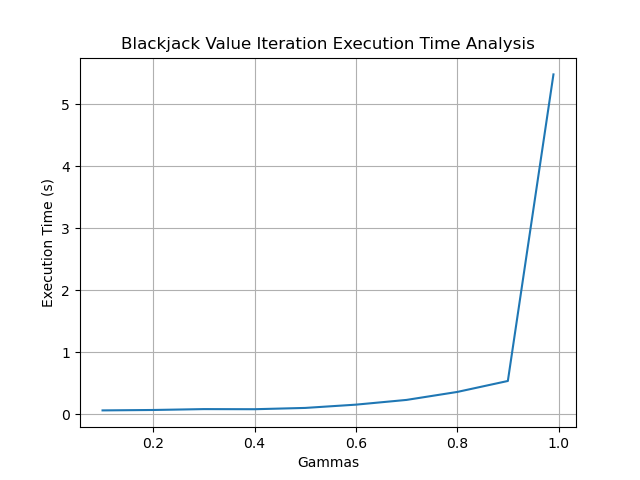
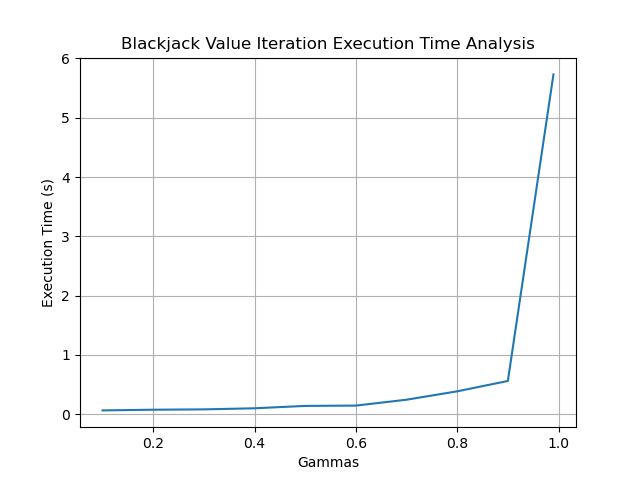
pr4 update 6

diff --git a/pr4/blackjack.py b/pr4/blackjack.py
@@ -87,91 +87,91 @@ def Blackjack_Experiments():
     iters = [0] * 10
     list_scores = [0] * 10
     gammas = [0.1, 0.2, 0.3, 0.4, 0.5, 0.6, 0.7, 0.8, 0.9, 0.99]
-    # ### POLICY ITERATION ####
-    # print('POLICY ITERATION WITH BLACKJACK')
-    # for i, g in enumerate(gammas):
-    #     st = time.time()
-    #     best_policy, k = policy_iteration(blackjack, gamma=g)
-    #     end = time.time()
-    #     print('policy iteration finish for gamma:', g)
-    #     scores = evaluate_policy(blackjack, best_policy, gamma=g)
-    #     # print(best_policy)
-    #     plot_blackjack_policy(blackjack, best_policy.reshape(29,10), 'Blackjack Policy Map Iteration ' + str(i) + ' (Policy Iteration) ' + 'Gamma ' + str(g), directions_blackjack())
-    #     print('policy evaluation finish for gamma:', g)
-    #     gamma_arr[i] = g
-    #     list_scores[i] = np.mean(scores)
-    #     iters[i] = k
-    #     time_array[i] = end - st
+    ### POLICY ITERATION ####
+    print('POLICY ITERATION WITH BLACKJACK')
+    for i, g in enumerate(gammas):
+        st = time.time()
+        best_policy, k = policy_iteration(blackjack, gamma=g)
+        end = time.time()
+        print('policy iteration finish for gamma:', g)
+        scores = evaluate_policy(blackjack, best_policy, gamma=g)
+        # print(best_policy)
+        plot_blackjack_policy(blackjack, best_policy.reshape(29,10), 'Blackjack Policy Map Iteration ' + str(i) + ' (Policy Iteration) ' + 'Gamma ' + str(g), directions_blackjack())
+        print('policy evaluation finish for gamma:', g)
+        gamma_arr[i] = g
+        list_scores[i] = np.mean(scores)
+        iters[i] = k
+        time_array[i] = end - st
         
-    #     print('Number of iterations to converge: ', k, 'Total execution time:', end-st, 'Average reward: ', np.mean(scores), 'Gamma: ', g)
+        print('Number of iterations to converge: ', k, 'Total execution time:', end-st, 'Average reward: ', np.mean(scores), 'Gamma: ', g)
 
 
-    # plt.plot(gamma_arr, time_array)
-    # plt.xlabel('Gamma')
-    # plt.title('Blackjack Policy Iteration Execution Time Analysis')
-    # plt.ylabel('Execution Time (s)')
-    # plt.grid()
-    # plt.savefig('img/Blackjack Policy Iteration Execution Time Analysis.png')
-    # plt.close()
+    plt.plot(gamma_arr, time_array)
+    plt.xlabel('Gamma')
+    plt.title('Blackjack Policy Iteration Execution Time Analysis')
+    plt.ylabel('Execution Time (s)')
+    plt.grid()
+    plt.savefig('img/Blackjack Policy Iteration Execution Time Analysis.png')
+    plt.close()
 
-    # plt.plot(gamma_arr, list_scores)
-    # plt.xlabel('Gamma')
-    # plt.ylabel('Average Rewards')
-    # plt.title('Blackjack Policy Iteration Reward Analysis')
-    # plt.grid()
-    # plt.savefig('img/Blackjack Policy Iteration Reward Analysis.png')
-    # plt.close()
+    plt.plot(gamma_arr, list_scores)
+    plt.xlabel('Gamma')
+    plt.ylabel('Average Rewards')
+    plt.title('Blackjack Policy Iteration Reward Analysis')
+    plt.grid()
+    plt.savefig('img/Blackjack Policy Iteration Reward Analysis.png')
+    plt.close()
 
-    # plt.plot(gamma_arr, iters)
-    # plt.xlabel('Gamma')
-    # plt.ylabel('Iterations to Converge')
-    # plt.ylim(0,10)
-    # plt.title('Blackjack - Policy Iteration - Convergence Analysis')
-    # plt.grid()
-    # plt.savefig('img/Blackjack Policy Iteration Convergence Analysis.png')
-    # plt.close()
+    plt.plot(gamma_arr, iters)
+    plt.xlabel('Gamma')
+    plt.ylabel('Iterations to Converge')
+    plt.ylim(0,10)
+    plt.title('Blackjack - Policy Iteration - Convergence Analysis')
+    plt.grid()
+    plt.savefig('img/Blackjack Policy Iteration Convergence Analysis.png')
+    plt.close()
 
-    # ### VALUE ITERATION ###
-    # print('VALUE ITERATION WITH FROZEN LAKE')
-    # for i, g in enumerate(gammas):
-    #     st = time.time()
-    #     best_value, k = value_iteration(blackjack, gamma=g)
-    #     end = time.time()
-    #     print('value iteration finish for gamma: ', g)
-    #     policy = extract_policy(blackjack, best_value, gamma=g)
-    #     plot_blackjack_policy(blackjack, policy.reshape(29,10), 'Blackjack Policy Map Iteration ' + str(i) + ' (Value Iteration) ' + 'Gamma ' + str(g), directions_blackjack())
-    #     policy_score = evaluate_policy(blackjack, policy, gamma=g)
-    #     print('policy evaluation finish for gamma: ', g)
-    #     gamma_arr[i] = g
-    #     iters[i] = k
-    #     list_scores[i] = np.mean(policy_score)
-    #     time_array[i] = end - st
+    ### VALUE ITERATION ###
+    print('VALUE ITERATION WITH FROZEN LAKE')
+    for i, g in enumerate(gammas):
+        st = time.time()
+        best_value, k = value_iteration(blackjack, gamma=g)
+        end = time.time()
+        print('value iteration finish for gamma: ', g)
+        policy = extract_policy(blackjack, best_value, gamma=g)
+        plot_blackjack_policy(blackjack, policy.reshape(29,10), 'Blackjack Policy Map Iteration ' + str(i) + ' (Value Iteration) ' + 'Gamma ' + str(g), directions_blackjack())
+        policy_score = evaluate_policy(blackjack, policy, gamma=g)
+        print('policy evaluation finish for gamma: ', g)
+        gamma_arr[i] = g
+        iters[i] = k
+        list_scores[i] = np.mean(policy_score)
+        time_array[i] = end - st
         
-    #     print('Number of iterations to converge: ', k, 'Total execution time:', end-st, 'Average reward: ', np.mean(scores), 'Gamma: ', g)
+        print('Number of iterations to converge: ', k, 'Total execution time:', end-st, 'Average reward: ', np.mean(scores), 'Gamma: ', g)
 
-    # plt.plot(gamma_arr, time_array)
-    # plt.xlabel('Gammas')
-    # plt.title('Blackjack Value Iteration Execution Time Analysis')
-    # plt.ylabel('Execution Time (s)')
-    # plt.grid()
-    # plt.savefig('img/Blackjack Value Iteration Execution Time Analysis.png')
-    # plt.close()
+    plt.plot(gamma_arr, time_array)
+    plt.xlabel('Gammas')
+    plt.title('Blackjack Value Iteration Execution Time Analysis')
+    plt.ylabel('Execution Time (s)')
+    plt.grid()
+    plt.savefig('img/Blackjack Value Iteration Execution Time Analysis.png')
+    plt.close()
 
-    # plt.plot(gamma_arr, list_scores)
-    # plt.xlabel('Gammas')
-    # plt.ylabel('Average Rewards')
-    # plt.title('Blackjack Value Iteration Reward Analysis')
-    # plt.grid()
-    # plt.savefig('img/Blackjack Value Iteration Reward Analysis.png')
-    # plt.close()
+    plt.plot(gamma_arr, list_scores)
+    plt.xlabel('Gammas')
+    plt.ylabel('Average Rewards')
+    plt.title('Blackjack Value Iteration Reward Analysis')
+    plt.grid()
+    plt.savefig('img/Blackjack Value Iteration Reward Analysis.png')
+    plt.close()
 
-    # plt.plot(gamma_arr, iters)
-    # plt.xlabel('Gammas')
-    # plt.ylabel('Iterations to Converge')
-    # plt.title('Blackjack Value Iteration Convergence Analysis')
-    # plt.grid()
-    # plt.savefig('img/Blackjack Value Iteration Convergence Analysis.png')
-    # plt.close()
+    plt.plot(gamma_arr, iters)
+    plt.xlabel('Gammas')
+    plt.ylabel('Iterations to Converge')
+    plt.title('Blackjack Value Iteration Convergence Analysis')
+    plt.grid()
+    plt.savefig('img/Blackjack Value Iteration Convergence Analysis.png')
+    plt.close()
 
     ### Q-LEARNING #####
     print('Q LEARNING WITH FROZEN LAKE')
@@ -191,7 +191,7 @@ def Blackjack_Experiments():
         iters = []
         optimal = [0] * blackjack.n_states
         alpha = 0.1
-        gamma = 0.1
+        gamma = 0.99
         episodes = 30000
         epsilons = decay_schedule(epsilon, 0.1, 0.9, episodes)
         alphas = decay_schedule(alpha, 0.01, 0.9, episodes)

diff --git a/pr4/frozen_lake.py b/pr4/frozen_lake.py
@@ -28,88 +28,88 @@ def Frozen_Lake_Experiments():
 	list_scores=[0]*10
 	gammas = [0.1, 0.2, 0.3, 0.4, 0.5, 0.6, 0.7, 0.8, 0.9, 0.99]
 	
-	# ### POLICY ITERATION ####
-	# print('POLICY ITERATION WITH FROZEN LAKE')
-	# for i, g in enumerate(gammas):
-	# 	st=time.time()
-	# 	best_policy,k = policy_iteration(env, gamma = g)
-	# 	end=time.time()
-	# 	print('policy iteration finish for gamma: ', g)
-	# 	plot_policy_map('Frozen Lake Policy Map Iteration '+ str(i) + ' (Policy Iteration) ' + 'Gamma '+ str(g),best_policy.reshape(n,n),desc,colors_lake(),directions_lake())
-	# 	scores = evaluate_policy(env, best_policy, gamma = g, desc=desc, custom=custom_frozen_lake)
-	# 	print('policy evaluation finish for gamma: ', g)		
-	# 	gamma_arr[i]= g
-	# 	list_scores[i]=np.mean(scores)
-	# 	iters[i] = k
-	# 	print('Number of iterations to converge: ', k, 'Total execution time:', end-st, 'Average reward: ', np.mean(scores), 'Gamma: ', g)
-	# 	time_array[i]=end-st
+	### POLICY ITERATION ####
+	print('POLICY ITERATION WITH FROZEN LAKE')
+	for i, g in enumerate(gammas):
+		st=time.time()
+		best_policy,k = policy_iteration(env, gamma = g)
+		end=time.time()
+		print('policy iteration finish for gamma: ', g)
+		plot_policy_map('Frozen Lake Policy Map Iteration '+ str(i) + ' (Policy Iteration) ' + 'Gamma '+ str(g),best_policy.reshape(n,n),desc,colors_lake(),directions_lake())
+		scores = evaluate_policy(env, best_policy, gamma = g, desc=desc, custom=custom_frozen_lake)
+		print('policy evaluation finish for gamma: ', g)		
+		gamma_arr[i]= g
+		list_scores[i]=np.mean(scores)
+		iters[i] = k
+		print('Number of iterations to converge: ', k, 'Total execution time:', end-st, 'Average reward: ', np.mean(scores), 'Gamma: ', g)
+		time_array[i]=end-st
 	
 	
-	# plt.plot(gamma_arr, time_array)
-	# plt.xlabel('Gamma')
-	# plt.title('Frozen Lake Policy Iteration Execution Time Analysis')
-	# plt.ylabel('Execution Time (s)')
-	# plt.grid()
-	# plt.savefig('img/Frozen Lake Policy Iteration Execution Time Analysis.png')
-	# plt.close()
+	plt.plot(gamma_arr, time_array)
+	plt.xlabel('Gamma')
+	plt.title('Frozen Lake Policy Iteration Execution Time Analysis')
+	plt.ylabel('Execution Time (s)')
+	plt.grid()
+	plt.savefig('img/Frozen Lake Policy Iteration Execution Time Analysis.png')
+	plt.close()
 
-	# plt.plot(gamma_arr,list_scores)
-	# plt.xlabel('Gamma')
-	# plt.ylabel('Average Rewards')
-	# plt.title('Frozen Lake Policy Iteration Reward Analysis')
-	# plt.grid()
-	# plt.savefig('img/Frozen Lake Policy Iteration Reward Analysis.png')
-	# plt.close()
+	plt.plot(gamma_arr,list_scores)
+	plt.xlabel('Gamma')
+	plt.ylabel('Average Rewards')
+	plt.title('Frozen Lake Policy Iteration Reward Analysis')
+	plt.grid()
+	plt.savefig('img/Frozen Lake Policy Iteration Reward Analysis.png')
+	plt.close()
 
-	# plt.plot(gamma_arr,iters)
-	# plt.xlabel('Gamma')
-	# plt.ylabel('Iterations to Converge')
-	# plt.title('Frozen Lake Policy Iteration Convergence Analysis')
-	# plt.grid()
-	# plt.savefig('img/Frozen Lake Policy Iteration Convergence Analysis.png')
-	# plt.close()
+	plt.plot(gamma_arr,iters)
+	plt.xlabel('Gamma')
+	plt.ylabel('Iterations to Converge')
+	plt.title('Frozen Lake Policy Iteration Convergence Analysis')
+	plt.grid()
+	plt.savefig('img/Frozen Lake Policy Iteration Convergence Analysis.png')
+	plt.close()
 
 	
-	# ### VALUE ITERATION ###
-	# print('VALUE ITERATION WITH FROZEN LAKE')
-	# for i, g in enumerate(gammas):
-	# 	st=time.time()
-	# 	best_value,k = value_iteration(env, gamma = g)
-	# 	end=time.time()
-	# 	print('value iteration finish for gamma: ', g)
-	# 	policy = extract_policy(env,best_value, gamma = g)
-	# 	policy_score = evaluate_policy(env, policy, gamma=g, desc=desc, custom=custom_frozen_lake)
-	# 	print('policy evaluation finish for gamma: ', g)
-	# 	plot_policy_map('Frozen Lake Policy Map Iteration '+ str(i) + ' (Value Iteration) ' + 'Gamma '+ str(g),policy.reshape(n,n),desc,colors_lake(),directions_lake())		
-	# 	gamma_arr[i]=g
-	# 	iters[i]=k
-	# 	list_scores[i]=np.mean(policy_score)
-	# 	print('Number of iterations to converge: ', k, 'Total execution time:', end-st, 'Average reward: ', np.mean(scores), 'Gamma: ', g)
-	# 	time_array[i]=end-st
+	### VALUE ITERATION ###
+	print('VALUE ITERATION WITH FROZEN LAKE')
+	for i, g in enumerate(gammas):
+		st=time.time()
+		best_value,k = value_iteration(env, gamma = g)
+		end=time.time()
+		print('value iteration finish for gamma: ', g)
+		policy = extract_policy(env,best_value, gamma = g)
+		policy_score = evaluate_policy(env, policy, gamma=g, desc=desc, custom=custom_frozen_lake)
+		print('policy evaluation finish for gamma: ', g)
+		plot_policy_map('Frozen Lake Policy Map Iteration '+ str(i) + ' (Value Iteration) ' + 'Gamma '+ str(g),policy.reshape(n,n),desc,colors_lake(),directions_lake())		
+		gamma_arr[i]=g
+		iters[i]=k
+		list_scores[i]=np.mean(policy_score)
+		print('Number of iterations to converge: ', k, 'Total execution time:', end-st, 'Average reward: ', np.mean(scores), 'Gamma: ', g)
+		time_array[i]=end-st
 
-	# plt.plot(gamma_arr, time_array)
-	# plt.xlabel('Gamma')
-	# plt.title('Frozen Lake Value Iteration Execution Time Analysis')
-	# plt.ylabel('Execution Time (s)')
-	# plt.grid()
-	# plt.savefig('img/Frozen Lake Value Iteration Execution Time Analysis.png')
-	# plt.close()
+	plt.plot(gamma_arr, time_array)
+	plt.xlabel('Gamma')
+	plt.title('Frozen Lake Value Iteration Execution Time Analysis')
+	plt.ylabel('Execution Time (s)')
+	plt.grid()
+	plt.savefig('img/Frozen Lake Value Iteration Execution Time Analysis.png')
+	plt.close()
 
-	# plt.plot(gamma_arr,list_scores)
-	# plt.xlabel('Gamma')
-	# plt.ylabel('Average Rewards')
-	# plt.title('Frozen Lake Value Iteration Reward Analysis')
-	# plt.grid()
-	# plt.savefig('img/Frozen Lake Value Iteration Reward Analysis.png')
-	# plt.close()
+	plt.plot(gamma_arr,list_scores)
+	plt.xlabel('Gamma')
+	plt.ylabel('Average Rewards')
+	plt.title('Frozen Lake Value Iteration Reward Analysis')
+	plt.grid()
+	plt.savefig('img/Frozen Lake Value Iteration Reward Analysis.png')
+	plt.close()
 
-	# plt.plot(gamma_arr,iters)
-	# plt.xlabel('Gamma')
-	# plt.ylabel('Iterations to Converge')
-	# plt.title('Frozen Lake Value Iteration Convergence Analysis')
-	# plt.grid()
-	# plt.savefig('img/Frozen Lake Value Iteration Convergence Analysis.png')
-	# plt.close()
+	plt.plot(gamma_arr,iters)
+	plt.xlabel('Gamma')
+	plt.ylabel('Iterations to Converge')
+	plt.title('Frozen Lake Value Iteration Convergence Analysis')
+	plt.grid()
+	plt.savefig('img/Frozen Lake Value Iteration Convergence Analysis.png')
+	plt.close()
 
 	
 	### Q-LEARNING #####
@@ -130,7 +130,7 @@ def Frozen_Lake_Experiments():
 		iters = []
 		optimal=[0]*env.observation_space.n
 		alpha = 0.1
-		gamma = 0.1
+		gamma = 0.99
 		episodes = 30000
 		epsilons = decay_schedule(epsilon, 0.1, 0.9, episodes)
 		alphas = decay_schedule(alpha, 0.01, 0.9, episodes)
